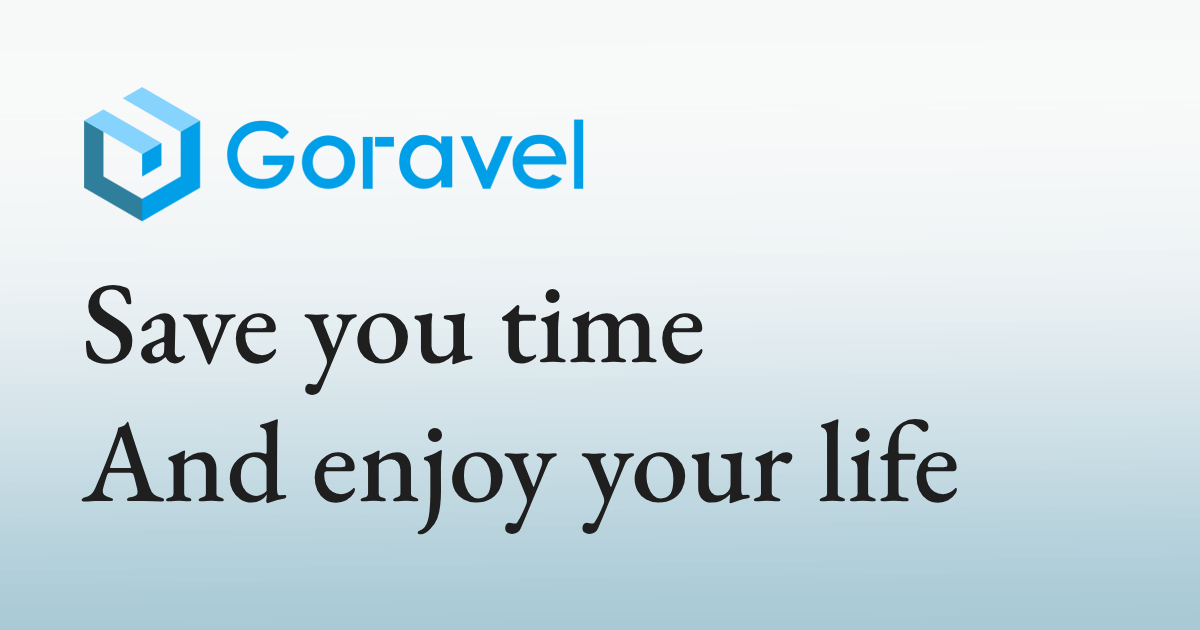
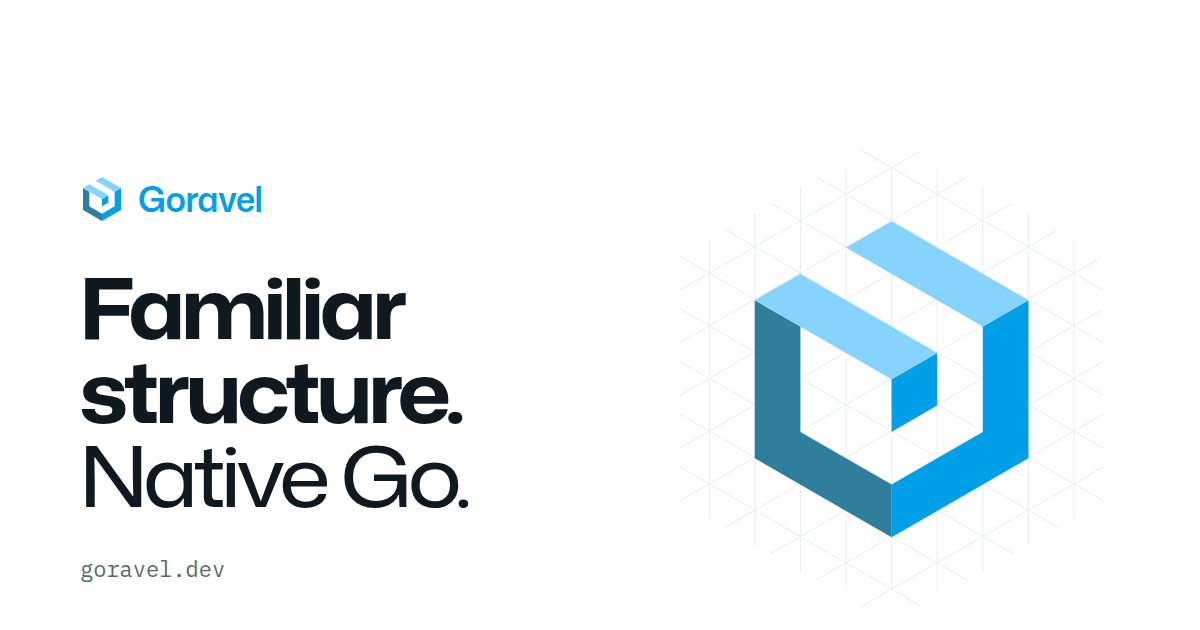
docs: fix stale examples and refresh the share preview
- task-scheduling: replace the Chinese table headers on the English
  page with Method and Description, and fix the "Crone" typo
- artisan-console: the route handler used *gin.Context, which is not a
  Goravel handler. Use func(ctx http.Context) http.Response in the
  English, Chinese and Uzbek pages, and Route().Get instead of the
  nonexistent GET on the Chinese page
- homepage: update the title, description, Open Graph and Twitter text
  in English and Chinese to match the new page, and replace meta.png
  with a card rendered from the new hero

diff --git a/zh_CN/index.md b/zh_CN/index.md
@@ -1,18 +1,18 @@
 ---
-title: Goravel - 全功能 Golang 开发框架
+title: Goravel - 熟悉的结构，原生的 Go
 
 head:
-  - [ 'meta', { name: description, content: Goravel 是一个 Golang 开发框架，具有完整功能和卓越的可扩展性。 作为起始脚手架帮助 Gopher 快速构建自己的应用。 } ]
+  - [ 'meta', { name: description, content: Goravel 是一个拥有 Laravel 结构的 Go Web 框架。路由、ORM、队列、任务调度、邮件、认证与测试，尽在一个框架之中。 } ]
   - [ 'meta', { property: og:url, content: https://www.goravel.dev } ]
   - [ 'meta', { property: og:type, content: website } ]
-  - [ 'meta', { property: og:title, content: Goravel - 全功能 Golang 开发框架 } ]
-  - [ 'meta', { property: og:description, content: Goravel 是一个 Golang 开发框架，具有完整功能和卓越的可扩展性。 作为起始脚手架帮助 Gopher 快速构建自己的应用。 } ]
+  - [ 'meta', { property: og:title, content: Goravel - 熟悉的结构，原生的 Go } ]
+  - [ 'meta', { property: og:description, content: Goravel 是一个拥有 Laravel 结构的 Go Web 框架。路由、ORM、队列、任务调度、邮件、认证与测试，尽在一个框架之中。 } ]
   - [ 'meta', { property: og:image, content: https://www.goravel.dev/meta.png } ]
   - [ 'meta', { name: twitter:card, content: summary_large_image } ]
   - [ 'meta', { property: twitter:domain, content: www.goravel.dev } ]
   - [ 'meta', { property: twitter:url, content: https://www.goravel.dev } ]
-  - [ 'meta', { name: twitter:title, content: Goravel - 全功能 Golang 开发框架 } ]
-  - [ 'meta', { name: twitter:description, content: Goravel 是一个 Golang 开发框架，具有完整功能和卓越的可扩展性。 作为起始脚手架帮助 Gopher 快速构建自己的应用。 } ]
+  - [ 'meta', { name: twitter:title, content: Goravel - 熟悉的结构，原生的 Go } ]
+  - [ 'meta', { name: twitter:description, content: Goravel 是一个拥有 Laravel 结构的 Go Web 框架。路由、ORM、队列、任务调度、邮件、认证与测试，尽在一个框架之中。 } ]
   - [ 'meta', { name: twitter:image, content: https://www.goravel.dev/meta.png } ]
 
 layout: goravel-home

diff --git a/en/index.md b/en/index.md
@@ -1,12 +1,12 @@
 ---
-title: Goravel - Full-featured Golang Development Framework
+title: Goravel - Familiar structure. Native Go.
 
 head:
   - [
       'meta',
       {
         name: description,
-        content: Goravel is a Golang development framework with complete functions and excellent scalability. As a starting scaffolding to help Gopher quickly build their own applications.
+        content: "Goravel is a full-featured web framework for Go with the structure of Laravel. Routing, ORM, queues, scheduling, mail, auth and testing in one framework."
       }
     ]
   - ['meta', { property: og:url, content: https://www.goravel.dev }]
@@ -15,14 +15,14 @@ head:
       'meta',
       {
         property: og:title,
-        content: Goravel - Full-featured Golang Development Framework
+        content: Goravel - Familiar structure. Native Go.
       }
     ]
   - [
       'meta',
       {
         property: og:description,
-        content: Goravel is a Golang development framework with complete functions and excellent scalability. As a starting scaffolding to help Gopher quickly build their own applications.
+        content: "Goravel is a full-featured web framework for Go with the structure of Laravel. Routing, ORM, queues, scheduling, mail, auth and testing in one framework."
       }
     ]
   - ['meta', { property: og:image, content: https://www.goravel.dev/meta.png }]
@@ -33,14 +33,14 @@ head:
       'meta',
       {
         name: twitter:title,
-        content: Goravel - The Golang Framework For Web Artisans
+        content: Goravel - Familiar structure. Native Go.
       }
     ]
   - [
       'meta',
       {
         name: twitter:description,
-        content: Goravel is a Golang development framework with complete functions and excellent scalability. As a starting scaffolding to help Gopher quickly build their own applications.
+        content: "Goravel is a full-featured web framework for Go with the structure of Laravel. Routing, ORM, queues, scheduling, mail, auth and testing in one framework."
       }
     ]
   - ['meta', { name: twitter:image, content: https://www.goravel.dev/meta.png }]

diff --git a/en/digging-deeper/task-scheduling.md b/en/digging-deeper/task-scheduling.md
@@ -41,10 +41,10 @@ When `app.debug` is `true`, the console will print all logs. Otherwise, only `er
 
 We've already seen a few examples of how you may configure a task to run at specified intervals. However, there are many more task schedule frequencies avaibable to assign to tasks:
 
-| 方法                     | 描述                                                |
+| Method                   | Description                                         |
 | ------------------------ | --------------------------------------------------- |
-| `.Cron("* * * * *")`     | Custom Crone schedule (minutes)                     |
-| `.Cron("* * * * * *")`   | Custom Crone schedule (seconds)                     |
+| `.Cron("* * * * *")`     | Custom Cron schedule (minutes)                     |
+| `.Cron("* * * * * *")`   | Custom Cron schedule (seconds)                     |
 | `.EverySecond()`         | Run the task every second                           |
 | `.EveryTwoSeconds()`     | Run the task every two seconds                      |
 | `.EveryFiveSeconds()`    | Run the task every five seconds                     |
@@ -87,7 +87,7 @@ We've already seen a few examples of how you may configure a task to run at spec
 
 By default, scheduled tasks will continue to run even if a previous instance is still running. To prevent this, use the following methods:
 
-| 方法                     | 描述                   |
+| Method                   | Description            |
 | ------------------------ | ---------------------- |
 | `.SkipIfStillRunning()`  | Skip if still running  |
 | `.DelayIfStillRunning()` | Delay if still running |

diff --git a/en/digging-deeper/artisan-console.md b/en/digging-deeper/artisan-console.md
@@ -636,9 +636,11 @@ func (receiver *ConsoleMakeCommand) Extend() command.Extend {
 Sometimes you may wish to execute an Artisan command outside of the CLI, you can use the `Call` method on the `facades.Artisan()` to operate this.
 
 ```go
-facades.Route().Get("/", func(c *gin.Context) {
+facades.Route().Get("/", func(ctx http.Context) http.Response {
   facades.Artisan().Call("emails")
   facades.Artisan().Call("emails --lang Chinese name") // With arguments and options
+
+  return ctx.Response().Success().String("done")
 })
 ```
 

diff --git a/uz_UZ/digging-deeper/artisan-console.md b/uz_UZ/digging-deeper/artisan-console.md
@@ -636,9 +636,11 @@ func (receiver *ConsoleMakeCommand) Extend() command.Extend {
 Ba'zan siz Artisan buyrug'ini CLI tashqarisida bajarishingiz mumkin, buning uchun `facades.Artisan()` da `Call` metodidan foydalanishingiz mumkin.
 
 ```go
-facades.Route().Get("/", func(c *gin.Context) {
+facades.Route().Get("/", func(ctx http.Context) http.Response {
   facades.Artisan().Call("emails")
   facades.Artisan().Call("emails --lang Chinese name") // With arguments and options
+
+  return ctx.Response().Success().String("done")
 })
 ```
 

diff --git a/zh_CN/digging-deeper/artisan-console.md b/zh_CN/digging-deeper/artisan-console.md
@@ -634,9 +634,11 @@ func (receiver *ConsoleMakeCommand) Extend() command.Extend {
 有时你可能希望在 CLI 之外执行 Artisan 命令，可以使用 `facades.Artisan()` 上的 `Call` 方法来完成此操作。
 
 ```go
-facades.Route().GET("/", func(c *gin.Context) {
+facades.Route().Get("/", func(ctx http.Context) http.Response {
   facades.Artisan().Call("emails")
   facades.Artisan().Call("emails --lang Chinese name") // 携带参数与选项
+
+  return ctx.Response().Success().String("done")
 })
 ```
 
